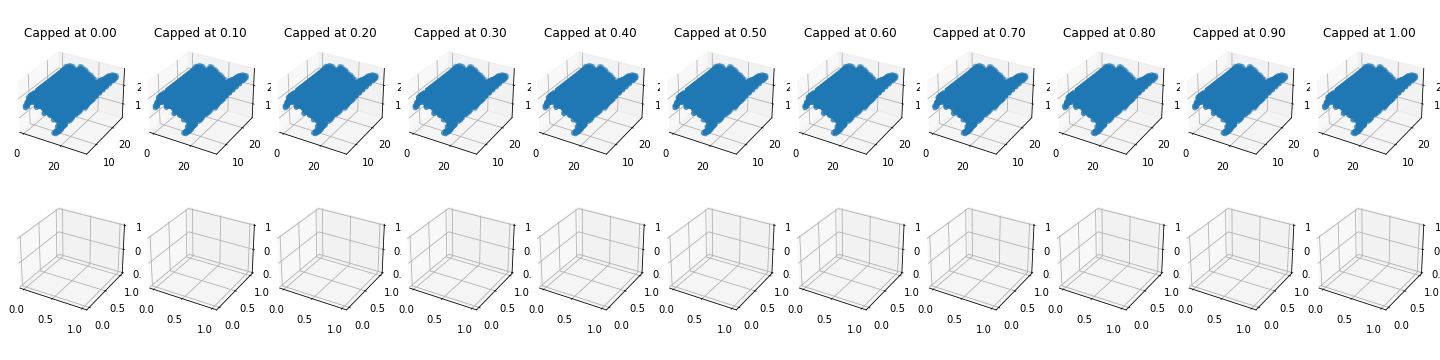
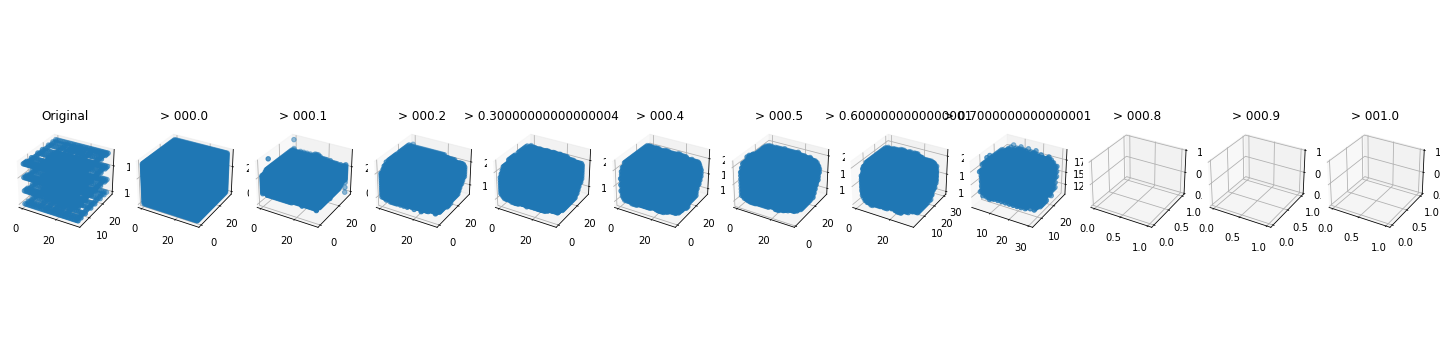
working version

diff --git a/3d_autoencoder.py b/3d_autoencoder.py
@@ -65,17 +65,18 @@ def generate_img_of_decodings(encodings, decodings, n=5):
 
 
 def generate_img_of_decodings_expanded(encodings, decodings, thresholds=[.9, .95, .99, .999, 1]):
-    rows = 2
-    fig = plt.figure(figsize=(20, 5))
-    n = len(thresholds)
+    rows = 1
+    fig = plt.figure(figsize=(25, 5))
+    n = len(thresholds) + 1
+
+    ax = fig.add_subplot(rows, n, 1, projection='3d')
+    elem1 = np.argwhere(encodings[0])
+    ax.set_title("Original")
+    ax.scatter(elem1[:, 0], elem1[:, 1], elem1[:, 2], cmap="Greys_r")
     for i, tresh in enumerate(thresholds):
         cnt = i + 1
-        ax = fig.add_subplot(rows, n, cnt, projection='3d')
-        elem1 = np.argwhere(encodings[0])
-        ax.set_title(f"Capped at {tresh:.2f}")
-        ax.scatter(elem1[:, 0], elem1[:, 1], elem1[:, 2], cmap="Greys_r")
-        # encoding_strings = "\n".join([f"{feature:.2f}" for feature in z[i]])
-        ax = fig.add_subplot(rows, n, cnt + 1 * n, projection='3d')
+        ax = fig.add_subplot(rows, n, cnt + 1, projection='3d')
+        ax.set_title(f"> {tresh:05}")
         elem2 = np.argwhere(decodings[0] >= tresh)
         ax.scatter(elem2[:, 0], elem2[:, 1], elem2[:, 2], cmap="Greys_r")
 
@@ -94,7 +95,12 @@ def plot_pointcound(pynt_cloud_object, n=32):
     return example_voxelgrid.plot(d=3, mode="binary", cmap="hsv", width=400, height=400)
 
 
-plot_pointcound(PyntCloud.from_file("data/airplane_0001.ply"))
+# test_sample = np.array(random.sample(list(x_test_mod), 100))
+# val_true = test_sample
+# val_predict = np.asarray(autoencoder.predict(test_sample))
+# fig = generate_img_of_decodings_expanded(val_true, val_predict)
+
+# plot_pointcound(PyntCloud.from_file("data/airplane_0001.ply"))
 
 # %%
 path_to_dataset = pathlib.Path("data/dataset.pkl")
@@ -181,8 +187,9 @@ def Decoder(bridging_shapes):
     d = DecoderUnit(d, 32)
     d = DecoderUnit(d, 16)
     # d = layers.Conv3DTranspose(1, 3, activation="elu", strides=2, padding="same")(d)
-    decoder_outputs = layers.Conv3DTranspose(1, 3, activation=None, strides=1, padding="same")(d)
+    decoder_outputs = layers.Conv3DTranspose(1, 3, activation='sigmoid', strides=1, padding="same")(d)
     # decoder_outputs = tf.pow(decoder_outputs, 3)
+
     return Model(z, decoder_outputs)
 
 
@@ -194,7 +201,6 @@ def generate_loss_function(penalty=.5):
     assert penalty >= 0 and penalty <= 1, "Choose value between 0 and 1"
     penalty = tf.constant(penalty, dtype=tf.float32)
 
-    @tf.function
     def loss_function(y, y_pred):
         clipped_y_pred = y_pred
         clipped_y_pred = tf.keras.backend.clip(y_pred, 0.1, 0.99)
@@ -220,7 +226,7 @@ class WeightedBinaryCrossEntropy(tf.keras.losses.Loss):
         self.penalty = penalty
 
     def call(self, y_true, y_pred):
-        return WeightedBinaryCrossEntropy.wbce(y_true, y_pred, self.penalty)
+        return WeightedBinaryCrossEntropy.wbce(y_true, y_pred, self.penalty)[0]
 
     @staticmethod
     def wbce(y_true, y_pred, penalty):
@@ -228,14 +234,14 @@ class WeightedBinaryCrossEntropy(tf.keras.losses.Loss):
         # binary_cross_entropy = -y_true * penalty * tf.math.log(clipped_y_pred) + 2 * (1 - y_true) * (1 - penalty) * tf.math.log(1 - clipped_y_pred)
         # binary_cross_entropy = -y_true * penalty * tf.math.log(clipped_y_pred) + (1 - y_true) * (1 - penalty) * tf.math.log(1 - clipped_y_pred)
         penalty *= 100
-        clipped_y_pred = WeightedBinaryCrossEntropy.clip_pred(y_pred, 1e-7, 1.0 - 1e-7)
+        clipped_y_pred = WeightedBinaryCrossEntropy.clip_pred(y_pred, 1e-3, 1.0 - 1e-3)
         binary_cross_entropy = -(penalty * y_true * tf.math.log(clipped_y_pred) + (100 - penalty) * (1.0 - y_true) * tf.math.log(1.0 - clipped_y_pred)) / 100.0
-        loss = tf.reduce_mean(binary_cross_entropy)
-        return loss
+        loss = tf.reduce_sum(binary_cross_entropy)
+        return loss, binary_cross_entropy
 
     @staticmethod
     def clip_pred(y_pred, min_val, max_val):
-        clipped_y_pred = tf.keras.backend.clip(tf.math.sigmoid(y_pred), min_val, max_val)
+        clipped_y_pred = tf.keras.backend.clip(y_pred, min_val, max_val)
         return clipped_y_pred
 
 
@@ -254,19 +260,40 @@ decoder.summary()
 
 autoencoder = Model(x, decoder(encoder(x)))
 autoencoder.summary()
-## %%
-penalty = .97
+# %%
+penalty = .90
+learning_rate = 0.01
+comment = "use overall sum"
+lbound, ubound = -0, 1
+
 loss_fn = generate_loss_function(penalty)
 loss_fn = WeightedBinaryCrossEntropy(penalty=penalty)
-
-opt_cl = opt.SGD(learning_rate=0.0001, nesterov=True, momentum=.9)
+opt_cl = opt.SGD(learning_rate=learning_rate, nesterov=True, momentum=.9)
+opt_cl = opt.Adam(learning_rate=learning_rate)
 autoencoder.compile(optimizer=opt_cl, loss=loss_fn)
-
-# # x_train_mod =
 x_train_mod, y_train_mod = _rebase(x_train, x_train, 0, 1)
 x_test_mod, y_test_mod = _rebase(x_test, x_test, 0, 1)
-x_train_mod, y_train_mod = _rebase(x_train, x_train, -0.1, 2)
+x_train_mod, y_train_mod = _rebase(x_train, x_train, lbound, ubound)
 x_test_mod, y_test_mod = _rebase(x_test, x_test, 0, 1)
+# x_train_mod, _ = _rebase(x_train, x_test, lbound, ubound)
+# y_train_mod, _ = _rebase(x_train, x_test, 0, 1)
+
+
+def construct_log_dir(elements=[]):
+    log_dir = f"logs/{datetime.now().strftime('%H%M%S')}/" + " - ".join(elements)
+    return log_dir
+
+
+elems = [
+    f"[{lbound:07.7f} & {ubound:07.7f}]",
+    f"[{penalty:05.5f}]",
+    f"[{learning_rate:07.7f}]",
+    f"{comment}" if comment else "NA",
+]
+
+log_dir = construct_log_dir(elems)
+print(log_dir)
+
 
 def lr_schedule(epoch):
     """
@@ -278,6 +305,15 @@ def lr_schedule(epoch):
 
     tf.summary.scalar('learning rate', data=learning_rate, step=epoch)
     return learning_rate
+
+
+def my_ceil(a, precision=0):
+    # https://stackoverflow.com/a/58065394/4162265
+    return np.round(a + 0.5 * 10**(-precision), precision)
+
+
+def my_floor(a, precision=0):
+    return np.round(a - 0.5 * 10**(-precision), precision)
 
 
 class CustomCallback(tf.keras.callbacks.Callback):
@@ -292,34 +328,41 @@ class CustomCallback(tf.keras.callbacks.Callback):
         test_sample = np.array(random.sample(list(self.x_test), 100))
         val_true = test_sample
         val_predict = np.asarray(self.model.predict(test_sample))
-        thresh = sorted(np.linspace(0, 1, 11))
+        loss, bce = WeightedBinaryCrossEntropy.wbce(val_true, val_predict, self.penalty)
+        min_pred = np.min(val_predict)
+        max_pred = np.max(val_predict)
+        mean_pred = np.mean(val_predict)
+        median_pred = np.median(val_predict)
+        minmax_ratio = min_pred / max_pred
+        print(f"Min {min_pred:.3f} - Max {max_pred:.3f} - Mean {mean_pred:.3f} - Loss {loss:.3f}")
         # fig = generate_img_of_decodings_expanded(val_true, val_predict, [.20, .35, .50, .80, .9, .95, .99, .999])
 
+        # precision = 3
+        # floored_max = my_floor(max_pred, precision)
+        # thresh = sorted(floored_max + np.linspace(0, 1, 11) / 10**precision)
+        thresh = np.linspace(0, 1, 11)
         fig = generate_img_of_decodings_expanded(val_true, val_predict, thresh)
         fig.tight_layout()
         fig.savefig('example.png')  # save the figure to file
         plt.close()
         canvas = FigureCanvasAgg(fig)
-        # Retrieve a view on the renderer buffer
         canvas.draw()
         buf = canvas.buffer_rgba()
-        # convert to a NumPy array
         img = np.asarray(buf, np.uint8)
 
         tf.summary.histogram("predictions", val_predict, step=epoch)
-        tf.summary.scalar("prediction-min", np.min(val_predict), step=epoch)
-        tf.summary.scalar("prediction-max", np.max(val_predict), step=epoch)
-        tf.summary.scalar("prediction-mean", np.mean(val_predict), step=epoch)
-        tf.summary.scalar("prediction-median", np.median(val_predict), step=epoch)
-        minmax_ratio = np.min(val_predict)/np.max(val_predict)
-        tf.summary.scalar("minmax-ratio", minmax_ratio, step=epoch)
-        tf.summary.histogram("BCE", WeightedBinaryCrossEntropy.wbce(val_true, val_predict, self.penalty), step=epoch)
+        tf.summary.scalar("min", min_pred, step=epoch)
+        tf.summary.scalar("max", max_pred, step=epoch)
+        tf.summary.scalar("mean", mean_pred, step=epoch)
+        tf.summary.scalar("median", median_pred, step=epoch)
+        tf.summary.scalar("minmax", minmax_ratio, step=epoch)
+        tf.summary.histogram("BCE", bce, step=epoch)
+        tf.summary.scalar("Loss", loss, step=epoch)
         tf.summary.image(f"After epoch: {epoch}", img.reshape(-1, *img.shape), step=epoch)
         tf.summary.flush()
 
 
-log_dir = "logs/fit/" + datetime.now().strftime("%Y%m%d-%H%M%S")
-file_writer = tf.summary.create_file_writer(log_dir + "/metrics")
+file_writer = tf.summary.create_file_writer(log_dir)
 file_writer.set_as_default()
 tensorboard_callback = tf.keras.callbacks.TensorBoard(log_dir=log_dir)
 lr_callback = tf.keras.callbacks.LearningRateScheduler(lr_schedule)
@@ -328,14 +371,14 @@ image_log_callback = CustomCallback(validation_data, penalty=penalty)
 history = autoencoder.fit(
     x_train_mod,
     y_train_mod,
-    epochs=25,
-    batch_size=1,
+    epochs=50,
+    batch_size=2,
     shuffle=True,
     validation_data=validation_data,
     callbacks=[
         image_log_callback,
-        #   lr_callback,
-        tensorboard_callback,
+        # lr_callback,
+        # tensorboard_callback,
     ])
 # # %%
 # plot_binary_pointcound(voxel_data_collected[1][0])
@@ -362,7 +405,7 @@ for i in range(0, n):
     # ax.axis('off')
     ax = fig.add_subplot(rows, n, cnt + 1 * n, projection='3d')
     # print(np.argwhere(decodings[i].reshape(data_shape[:-1]) > 0.5).shape)
-    elem2 = np.argwhere(decodings[i] >= .97)
+    elem2 = np.argwhere(decodings[i] >= np.max(decodings) - 1)
     ax.scatter(elem2[:, 0], elem2[:, 1], elem2[:, 2], cmap="Greys_r")
 
 plt.show()

diff --git a/misc/analyse_bce.py b/misc/analyse_bce.py
@@ -1,0 +1,81 @@
+from collections import Counter
+import matplotlib.pyplot as plt
+import numpy as np
+
+
+def generate_loss_function(penalty=.5):
+    assert penalty >= 0 and penalty <= 1, "Choose value between 0 and 1"
+
+    def loss_function(y_true, y_pred):
+        penalty_ = penalty * 100
+        clipped_y_pred = np.clip(y_pred, 1e-2, 1.0 - 1e-2)
+        binary_cross_entropy = -(penalty_ * y_true * np.log(clipped_y_pred) + (100 - penalty_) * (1.0 - y_true) * np.log(1.0 - clipped_y_pred)) / 100.0
+        loss = np.sum(binary_cross_entropy)
+        return loss, binary_cross_entropy
+
+    return loss_function
+
+def _rebase(x1, min_val, max_val):
+    x1 = (x1 * (max_val - min_val)) + min_val
+    return x1
+
+func = generate_loss_function(.97)
+data = np.load("data/dataset_voxels.npz")["data"]
+X = data[0]
+X_pred = np.ones_like(X)
+
+X_l = X.flatten().tolist()
+cnt = Counter(X_l)
+plt.hist(X_l)
+plt.title(str(cnt))
+plt.savefig(f"misc/X_hist.png")
+# plt.show()
+print(cnt)
+
+print("=============")
+print("Only 1")
+loss, bce = func(X, X_pred)
+bce_l = bce.flatten().tolist()
+cnt = Counter(bce_l)
+plt.hist(bce_l)
+plt.title(str(cnt))
+plt.savefig(f"misc/bce_hist.png")
+# plt.show()
+print(cnt)
+print(loss)
+
+print("=============")
+print("Only 0")
+loss, bce = func(X, np.zeros_like(X_pred))
+bce_l = bce.flatten().tolist()
+cnt = Counter(bce_l)
+plt.hist(bce_l)
+plt.title(str(cnt))
+plt.savefig(f"misc/bce_hist_zeros.png")
+# plt.show()
+print(cnt)
+print(loss)
+
+print("=============")
+print("Only -1")
+loss, bce = func(_rebase(X, -1, 2), np.ones_like(X_pred))
+bce_l = bce.flatten().tolist()
+cnt = Counter(bce_l)
+plt.hist(bce_l)
+plt.title(str(cnt))
+plt.savefig(f"misc/bce_hist_neg.png")
+# plt.show()
+print(cnt)
+print(loss)
+
+print("=============")
+print("Only same")
+loss, bce = func(X, X)
+bce_l = bce.flatten().tolist()
+cnt = Counter(bce_l)
+plt.hist(bce_l)
+plt.title(str(cnt))
+plt.savefig(f"misc/bce_hist_same.png")
+# plt.show()
+print(cnt)
+print(loss)
